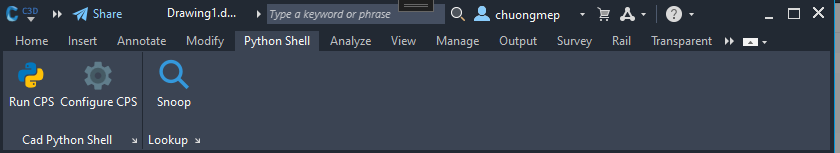
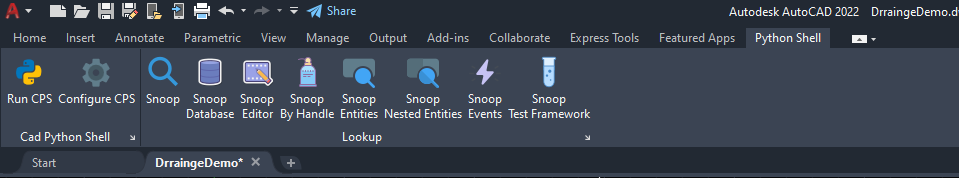
add readme

diff --git a/README.md b/README.md
@@ -34,7 +34,7 @@ The biggest limitation is that you can't deploy DLLs with custom scripts at this
 - Configurable "environment" variables that can be used in your scripts
 - Save "external scripts" for reuse and start collecting your awesome hacks!
 - Run scripts at Autocad or Civil startup
-- Quick **Snoop** info object Autocad or Civil3D
+- Full **Snoop** info object Autocad or Civil3D (Database,Editor,Entity,etc,..)
 - Interactive Snoop from console with IronPython
 ## Installation
 
@@ -48,14 +48,47 @@ Note : Support for 4 last version(2019-2022) Autocad or Civil 3D. Older versions
 ## Basic Usage
 
 - <kbd>PythonConsole</kbd> - Open Python Console
+
+![](Images/PythonShellConsole.png)
+
 - <kbd>PythonShellSetting</kbd> - Open Setting Config Console
-- <kbd>Snoop</kbd> - Snoop Object In CAD or Civil3D
+
+![](Images/ConfigPythonShell.png)
+
+- <kbd>Snoop</kbd> - Quick Snoop Object Sample In CAD or Civil3D
+
+![](Images/Snoop.png)
+
+- <kbd>SnoopDB</kbd> - Snoop Database In CAD or Civil3D
+
+![](Images/SnoopDB.png)
+
+- <kbd>SnoopEd</kbd> - Snoop Editor In CAD or Civil3D
+
+![](Images/SnoopEditor.png)
+
+- <kbd>SnoopEnts</kbd> - Snoop Entities In CAD or Civil3D
+
+![](Images/SnoopEntities.png)
+
+- <kbd>SnoopNEnts</kbd> - Snoop Entities Nested In CAD or Civil3D
+
+- <kbd>SnoopByHandle</kbd> - Snoop By Handle In CAD or Civil3D
+
+![](Images/SnoopByHandle.png)
+
+- <kbd>SnoopEvents</kbd> - Snoop Follow Events In CAD or Civil3D
+
+![](Images/SnoopEvents.png)
+
+#### Use Snoop In Python Shell Console
+
 - <kbd>sn.Snoop(obj)</kbd> - Snoop Object by Python Console In CAD or Civil3D
 - <kbd>snoop(obj)</kbd> - Snoop Object by Python Console or Execute python code In CAD or Civil3D
 
 ![](Images/pythoncmd.png)
 
-- Write Console Sample
+#### Write Console Sample
 
 ``` py
 ed = doc.Editor
@@ -132,3 +165,4 @@ Thanks to [JetBrains](https://www.jetbrains.com/) for providing licenses for [Ri
   * [Nice 3 Point](https://github.com/Nice3point) for process CI/CD
   * [Icon 8](https://icons8.com/) Free Wiki icons in various UI design styles for web, mobile
   * [htlcnn](https://github.com/htlcnn) origin of project AutocadLookup
+  * [Autodesk Developer Network](https://github.com/ADN-DevTech/MgdDbg) project `MgdDbg` support full snoop database in Autocad.
